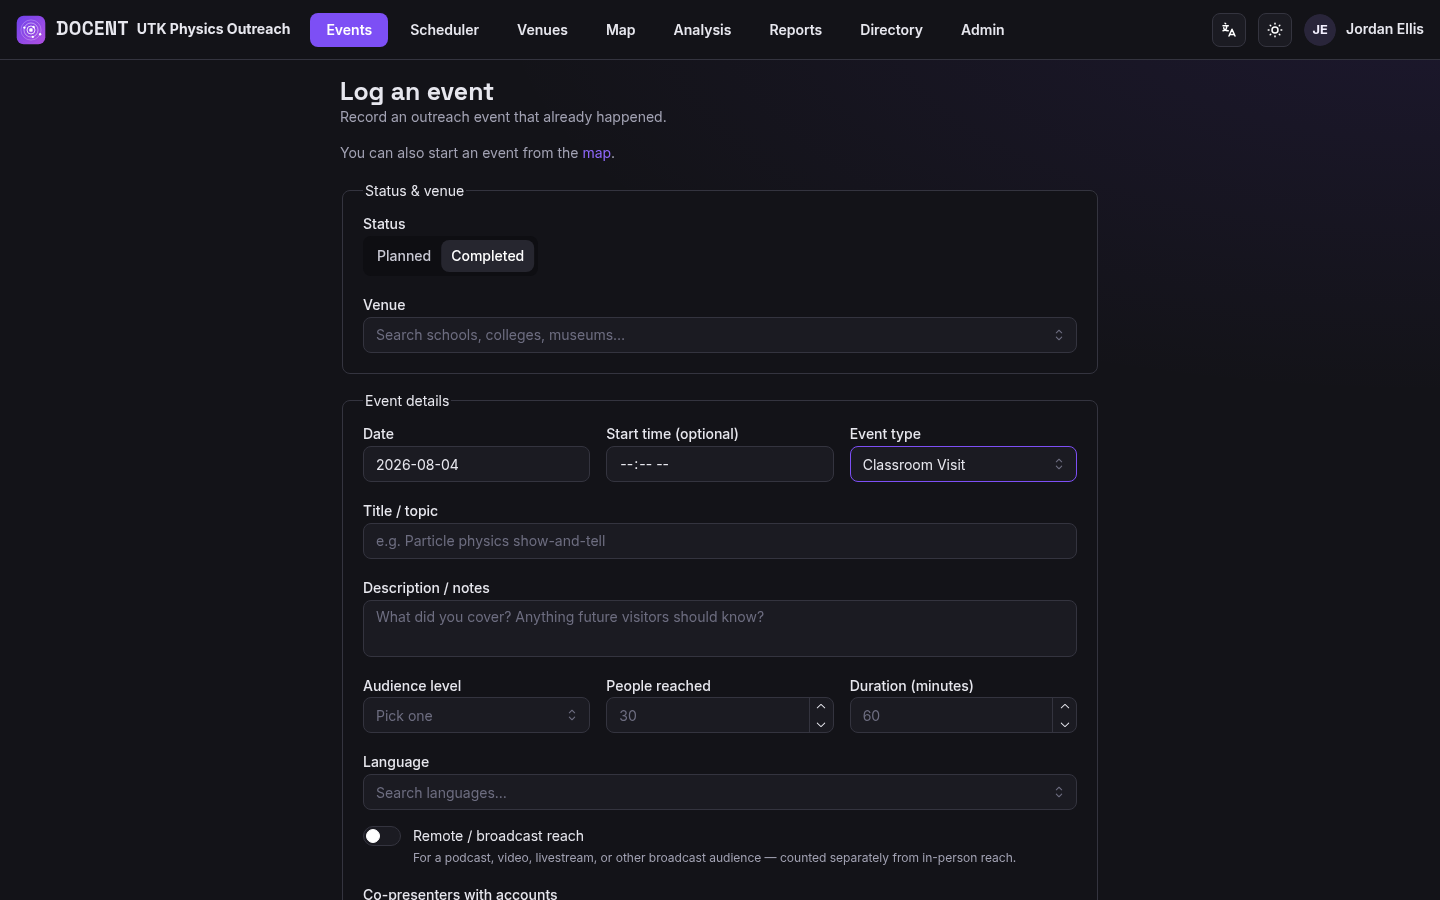
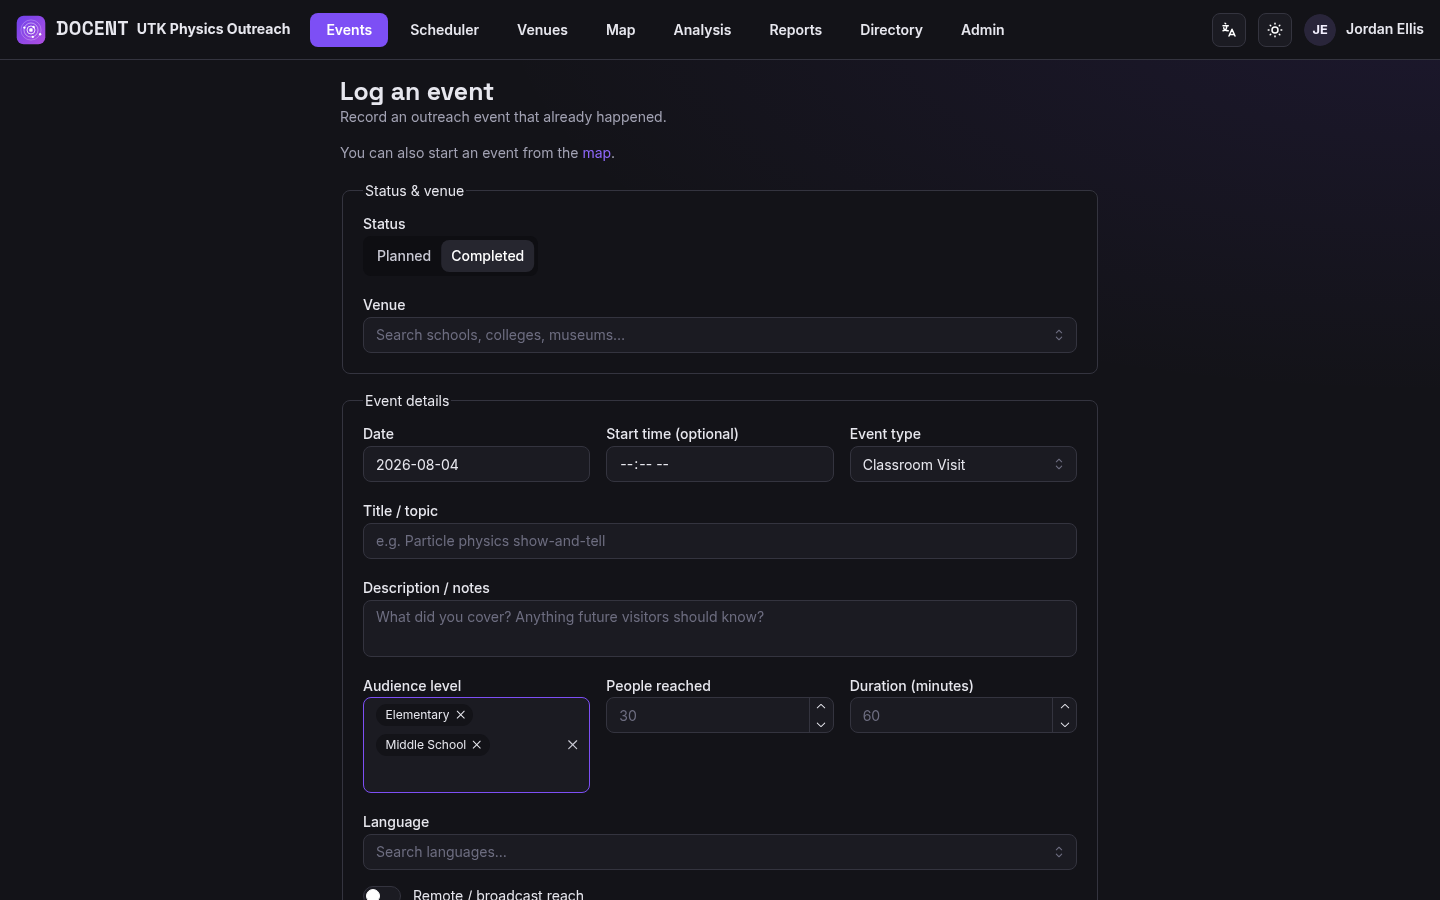
Make audience a multi-select (#42)
An event can target several audience levels at once (e.g. a family day that's
both elementary and middle school).

- Model/migration: add `visits.audience_levels` (array of the native audience
  enum) as the source of truth, backfilled from the existing single value. The
  scalar `audience_level` stays as the primary (always the first element) so the
  federation feed, CSV/DB export, and single-badge displays keep working.
- API: VisitCreate/VisitUpdate accept `audience_levels` (and still accept a lone
  `audience_level` for back-compat); at least one is required, duplicates are
  dropped order-preserving, and the primary is kept in step on create/update.
  VisitOut exposes both.
- Filtering (event list + analysis) now matches an event when *any* of its
  audience levels matches, so a multi-level event is findable under each level.
  Breakdowns group by the primary level, keeping totals exact.
- Frontend: the audience field is a MultiSelect; the detail page shows every
  level as a badge. Placeholder reworded to "Pick one or more" (7 locales).
- Regenerate the event-form screenshot showing the multi-select.

Claude-Session: https://claude.ai/code/session_01XEQAvLSiFRTpLbrGL8uQrW

Changed region(s): [[0.25, 0.7778, 0.5312, 1.0], [0.5625, 0.9333, 0.6875, 0.9644]]

diff --git a/frontend/src/pages/VisitFormPage.tsx b/frontend/src/pages/VisitFormPage.tsx
@@ -9,6 +9,7 @@ import {
   Fieldset,
   Group,
   Input,
+  MultiSelect,
   NumberInput,
   Rating,
   SegmentedControl,
@@ -75,7 +76,7 @@ interface FormValues {
   event_type: string;
   title: string;
   description: string;
-  audience_level: string;
+  audience_levels: string[];
   language: string | null;
   people_reached: number | '';
   duration_minutes: number | '';
@@ -131,7 +132,7 @@ export function VisitFormPage() {
       event_type: 'classroom_visit',
       title: '',
       description: '',
-      audience_level: '',
+      audience_levels: [],
       language: null,
       people_reached: '',
       duration_minutes: '',
@@ -156,7 +157,8 @@ export function VisitFormPage() {
       visit_date: (v) => (v ? null : t('visitForm.validation.dateRequired')),
       title: (v) => (v.trim().length > 0 ? null : t('visitForm.validation.titleRequired')),
       event_type: (v) => (v ? null : t('visitForm.validation.eventTypeRequired')),
-      audience_level: (v) => (v ? null : t('visitForm.validation.audienceRequired')),
+      audience_levels: (v: string[]) =>
+        v && v.length > 0 ? null : t('visitForm.validation.audienceRequired'),
       // Attendance is only required for a completed visit; a planned event may
       // leave it blank until it happens.
       people_reached: (v, values) => {
@@ -184,7 +186,7 @@ export function VisitFormPage() {
         event_type: existing.event_type,
         title: existing.title,
         description: existing.description ?? '',
-        audience_level: existing.audience_level,
+        audience_levels: existing.audience_levels ?? [existing.audience_level],
         language: existing.language,
         people_reached: existing.people_reached,
         duration_minutes: existing.duration_minutes ?? '',
@@ -245,7 +247,7 @@ export function VisitFormPage() {
         event_type: values.event_type,
         title: values.title.trim(),
         description: values.description.trim() || null,
-        audience_level: values.audience_level,
+        audience_levels: values.audience_levels,
         language: values.language || null,
         people_reached: values.people_reached === '' ? 0 : values.people_reached,
         duration_minutes: values.duration_minutes === '' ? null : values.duration_minutes,
@@ -391,11 +393,17 @@ export function VisitFormPage() {
               {...form.getInputProps('description')}
             />
             <SimpleGrid cols={{ base: 1, sm: isPlanned ? 2 : 3 }}>
-              <Select
+              <MultiSelect
                 label={t('visitForm.audienceLevelLabel')}
-                placeholder={t('visitForm.audienceLevelPlaceholder')}
+                placeholder={
+                  form.values.audience_levels.length === 0
+                    ? t('visitForm.audienceLevelPlaceholder')
+                    : undefined
+                }
                 data={AUDIENCE_LEVELS.map((v) => ({ value: v, label: enumLabel.audienceLevel(v) }))}
-                {...form.getInputProps('audience_level')}
+                searchable
+                clearable
+                {...form.getInputProps('audience_levels')}
               />
               {/* Attendance isn't known until the event happens — hidden while planned. */}
               {!isPlanned && (

diff --git a/frontend/src/pages/VisitDetailPage.tsx b/frontend/src/pages/VisitDetailPage.tsx
@@ -129,7 +129,13 @@ export function VisitDetailPage() {
               <Badge variant="light">{enumLabel.eventType(visit.event_type)}</Badge>
             </Field>
             <Field label={t('visitDetail.fieldAudience')}>
-              <Badge variant="light">{enumLabel.audienceLevel(visit.audience_level)}</Badge>
+              <Group gap={6}>
+                {(visit.audience_levels ?? [visit.audience_level]).map((a) => (
+                  <Badge key={a} variant="light">
+                    {enumLabel.audienceLevel(a)}
+                  </Badge>
+                ))}
+              </Group>
             </Field>
             {visit.language && (
               <Field label={t('visitDetail.fieldLanguage')}>{visit.language}</Field>

diff --git a/frontend/src/api/types.ts b/frontend/src/api/types.ts
@@ -355,6 +355,7 @@ export interface Visit {
   host_notes: string | null;
   people_reached: number;
   audience_level: AudienceLevel;
+  audience_levels: AudienceLevel[];
   language: string | null;
   duration_minutes: number | null;
   rating: number | null;

diff --git a/backend/app/schemas.py b/backend/app/schemas.py
@@ -2,7 +2,7 @@ import re
 from datetime import date, datetime, time
 from typing import Literal
 
-from pydantic import BaseModel, ConfigDict, EmailStr, Field, field_validator
+from pydantic import BaseModel, ConfigDict, EmailStr, Field, field_validator, model_validator
 
 MAX_TAGS = 30
 MAX_TAG_LEN = 50
@@ -130,6 +130,29 @@ def clean_languages(values: list[str] | None) -> list[str]:
             seen.add(v)
             out.append(v)
     return out
+
+
+def _resolve_audience_levels(
+    levels: "list[AudienceLevel] | None",
+    primary: "AudienceLevel | None",
+    *,
+    required: bool,
+) -> "list[AudienceLevel] | None":
+    """Normalise the audience multi-select (#42): fall back to the single
+    `primary` when the list is absent, dedupe order-preserving, and enforce at
+    least one when `required`. Returns None only for an omitted optional update."""
+    source = levels if levels is not None else ([primary] if primary else None)
+    if source is None:
+        if required:
+            raise ValueError("at least one audience level is required")
+        return None
+    deduped: list = []
+    for lv in source:
+        if lv is not None and lv not in deduped:
+            deduped.append(lv)
+    if not deduped:
+        raise ValueError("at least one audience level is required")
+    return deduped
 
 
 # --- Auth / users ---
@@ -668,7 +691,11 @@ class VisitCreate(BaseModel):
     host_notes: str | None = None
     # Optional so a *planned* event can be scheduled before attendance is known.
     people_reached: int = Field(default=0, ge=0, le=MAX_PEOPLE_REACHED)
-    audience_level: AudienceLevel
+    # An event can target several audience levels (#42). `audience_levels` is the
+    # multi-select; `audience_level` is the single primary (first of the list) and
+    # is accepted on its own for back-compat. At least one must be given.
+    audience_level: AudienceLevel | None = None
+    audience_levels: list[AudienceLevel] | None = None
     language: str | None = None
     duration_minutes: int | None = Field(default=None, ge=0)
     rating: int | None = Field(default=None, ge=1, le=5)
@@ -679,6 +706,14 @@ class VisitCreate(BaseModel):
     co_presenter_user_ids: list[int] = Field(default_factory=list)
     tags: list[str] = Field(default_factory=list)
     links: list[VisitLink] = Field(default_factory=list)
+
+    @model_validator(mode="after")
+    def _resolve_audiences(self) -> "VisitCreate":
+        self.audience_levels = _resolve_audience_levels(
+            self.audience_levels, self.audience_level, required=True
+        )
+        self.audience_level = self.audience_levels[0]
+        return self
 
     @field_validator("language")
     @classmethod
@@ -713,6 +748,7 @@ class VisitUpdate(BaseModel):
     host_notes: str | None = None
     people_reached: int | None = Field(default=None, ge=0, le=MAX_PEOPLE_REACHED)
     audience_level: AudienceLevel | None = None
+    audience_levels: list[AudienceLevel] | None = None
     language: str | None = None
     duration_minutes: int | None = Field(default=None, ge=0)
     rating: int | None = Field(default=None, ge=1, le=5)
@@ -723,6 +759,16 @@ class VisitUpdate(BaseModel):
     co_presenter_user_ids: list[int] | None = None
     tags: list[str] | None = None
     links: list[VisitLink] | None = None
+
+    @model_validator(mode="after")
+    def _dedupe_audiences(self) -> "VisitUpdate":
+        # Only normalise when the client actually sent an audience field; the
+        # router keeps the scalar primary in step with the list (#42).
+        if self.audience_levels is not None or self.audience_level is not None:
+            self.audience_levels = _resolve_audience_levels(
+                self.audience_levels, self.audience_level, required=False
+            )
+        return self
 
     @field_validator("language")
     @classmethod
@@ -761,6 +807,7 @@ class VisitOut(BaseModel):
     host_notes: str | None
     people_reached: int
     audience_level: AudienceLevel
+    audience_levels: list[AudienceLevel]
     language: str | None
     duration_minutes: int | None
     rating: int | None

diff --git a/backend/tests/test_visits.py b/backend/tests/test_visits.py
@@ -516,3 +516,54 @@ def test_reached_out_host_relationship(client):
     assert v["host_relationship"] == "reached_out"
     got = client.get(f"/api/visits/{v['id']}").json()
     assert got["host_relationship"] == "reached_out"
+
+
+def test_audience_multi_select(client):
+    """Audience is a multi-select: the scalar primary mirrors the first level,
+    duplicates are dropped, and filtering matches any level (#42)."""
+    register(client)
+    venue = create_venue(client)
+    v = create_visit(
+        client,
+        venue["id"],
+        audience_level=None,
+        audience_levels=["elementary", "middle_school", "elementary"],
+    )
+    assert v["audience_levels"] == ["elementary", "middle_school"]  # deduped, ordered
+    assert v["audience_level"] == "elementary"  # primary == first
+
+    got = client.get(f"/api/visits/{v['id']}").json()
+    assert got["audience_levels"] == ["elementary", "middle_school"]
+
+    # Filtering by a *secondary* level still surfaces the event.
+    listed = client.get("/api/visits", params={"audience_level": "middle_school"}).json()
+    assert any(it["id"] == v["id"] for it in listed["items"])
+    # A level it doesn't target excludes it.
+    other = client.get("/api/visits", params={"audience_level": "graduate"}).json()
+    assert all(it["id"] != v["id"] for it in other["items"])
+
+    # Updating the list re-syncs the primary.
+    upd = client.patch(
+        f"/api/visits/{v['id']}", json={"audience_levels": ["graduate", "educators"]}
+    )
+    assert upd.status_code == 200, upd.text
+    assert upd.json()["audience_levels"] == ["graduate", "educators"]
+    assert upd.json()["audience_level"] == "graduate"
+
+
+def test_audience_at_least_one_required(client):
+    """An empty audience multi-select is rejected (#42)."""
+    register(client)
+    venue = create_venue(client)
+    resp = client.post(
+        "/api/visits",
+        json={
+            "venue_id": venue["id"],
+            "visit_date": "2026-03-14",
+            "event_type": "classroom_visit",
+            "title": "No audience",
+            "people_reached": 10,
+            "audience_levels": [],
+        },
+    )
+    assert resp.status_code == 422, resp.text

diff --git a/backend/app/models.py b/backend/app/models.py
@@ -70,6 +70,12 @@ class AudienceLevel(str, enum.Enum):
     mixed = "mixed"
 
 
+# One shared Enum instance for both the scalar `audience_level` and the
+# `audience_levels` array column, so metadata.create_all emits the native enum
+# type exactly once (#42).
+_audience_level_enum = Enum(AudienceLevel, name="audience_level")
+
+
 class InstitutionType(str, enum.Enum):
     school = "school"
     college = "college"
@@ -261,8 +267,15 @@ class Visit(Base):
     host_relationship_detail: Mapped[str | None] = mapped_column(String(500))
     host_notes: Mapped[str | None] = mapped_column(Text)
     people_reached: Mapped[int] = mapped_column(Integer)
-    audience_level: Mapped[AudienceLevel] = mapped_column(
-        Enum(AudienceLevel, name="audience_level")
+    # Primary audience level — kept as a single value for back-compat (federation
+    # feed, CSV/DB export, a one-badge display) and always equal to the first of
+    # `audience_levels`.
+    audience_level: Mapped[AudienceLevel] = mapped_column(_audience_level_enum)
+    # An event can target several audience levels at once (#42). Source of truth
+    # for the form, filtering (match any), and the audience breakdown (an event
+    # is counted once in each level it targets). `audience_level` mirrors [0].
+    audience_levels: Mapped[list[AudienceLevel]] = mapped_column(
+        ARRAY(_audience_level_enum), nullable=False, server_default=text("'{}'")
     )
     # Free-ish text, but constrained to app.languages.LANGUAGE_SET at the
     # Pydantic layer — plain String rather than a Postgres enum so the central

diff --git a/backend/app/routers/visits.py b/backend/app/routers/visits.py
@@ -149,7 +149,8 @@ def _filtered_query(
     if event_type:
         query = query.where(Visit.event_type == event_type)
     if audience_level:
-        query = query.where(Visit.audience_level == audience_level)
+        # Match an event whose audience multi-select includes this level (#42).
+        query = query.where(Visit.audience_levels.any(audience_level))
     if author_id:
         query = query.where(Visit.author_id == author_id)
     if q:
@@ -476,6 +477,12 @@ def update_visit(visit_id: int, body: VisitUpdate, user: CurrentUser, db: DbSess
     updates = body.model_dump(exclude_unset=True)
     if "venue_id" in updates and not db.get(Venue, updates["venue_id"]):
         raise HTTPException(status_code=status.HTTP_404_NOT_FOUND, detail="Venue not found")
+    # Keep the audience multi-select and its primary in step (#42): whichever the
+    # client sent drives both columns (the list wins if both are present).
+    if updates.get("audience_levels"):
+        updates["audience_level"] = updates["audience_levels"][0]
+    elif updates.get("audience_level") is not None:
+        updates["audience_levels"] = [updates["audience_level"]]
     for field, value in updates.items():
         setattr(visit, field, value)
     db.commit()

diff --git a/backend/app/services/dbtransfer.py b/backend/app/services/dbtransfer.py
@@ -127,6 +127,7 @@ def export_data(db: Session) -> dict[str, Any]:
                 "host_notes": v.host_notes,
                 "people_reached": v.people_reached,
                 "audience_level": v.audience_level.value,
+                "audience_levels": [a.value for a in v.audience_levels],
                 "language": v.language,
                 "duration_minutes": v.duration_minutes,
                 "rating": v.rating,
@@ -274,6 +275,12 @@ def import_data(db: Session, payload: dict[str, Any]) -> dict[str, int]:
             host_notes=row.get("host_notes"),
             people_reached=row.get("people_reached", 0),
             audience_level=AudienceLevel(row["audience_level"]),
+            # Fall back to the single primary for exports predating the
+            # multi-select (#42).
+            audience_levels=[
+                AudienceLevel(a)
+                for a in (row.get("audience_levels") or [row["audience_level"]])
+            ],
             language=row.get("language") if row.get("language") in LANGUAGE_SET else None,
             duration_minutes=row.get("duration_minutes"),
             rating=row.get("rating"),

diff --git a/backend/alembic/versions/a7b8c9d0e1f2_add_visit_audience_levels.py b/backend/alembic/versions/a7b8c9d0e1f2_add_visit_audience_levels.py
@@ -1,0 +1,31 @@
+"""add visits.audience_levels multi-select (#42)
+
+Revision ID: a7b8c9d0e1f2
+Revises: f6a7b8c9d0e1
+Create Date: 2026-08-04
+
+An event can target several audience levels at once. `audience_levels` is the
+array source of truth; the existing scalar `audience_level` is kept as the
+primary (always the first element) for back-compat with the federation feed,
+CSV/DB export, and single-badge displays.
+"""
+from alembic import op
+
+revision = "a7b8c9d0e1f2"
+down_revision = "f6a7b8c9d0e1"
+branch_labels = None
+depends_on = None
+
+
+def upgrade() -> None:
+    # Array of the existing native `audience_level` enum type.
+    op.execute(
+        "ALTER TABLE visits "
+        "ADD COLUMN audience_levels audience_level[] NOT NULL DEFAULT '{}'"
+    )
+    # Backfill: every existing event's multi-select starts as its single level.
+    op.execute("UPDATE visits SET audience_levels = ARRAY[audience_level]")
+
+
+def downgrade() -> None:
+    op.drop_column("visits", "audience_levels")

diff --git a/backend/app/routers/stats.py b/backend/app/routers/stats.py
@@ -169,7 +169,9 @@ def _apply_filters(
         query = query.where(Visit.event_type.in_(event_types))
     audience_levels = _parse_enum_list(audience_level, AudienceLevel)
     if audience_levels:
-        query = query.where(Visit.audience_level.in_(audience_levels))
+        # An event matches if its audience multi-select overlaps the requested
+        # levels (#42).
+        query = query.where(Visit.audience_levels.overlap(audience_levels))
     parsed_tags = _parse_tags(tags)
     if parsed_tags:
         query = query.where(Visit.tags.overlap(parsed_tags))

diff --git a/README.md b/README.md
@@ -32,7 +32,7 @@ institution deploys and configures it.)*
 
 ![Events list](docs/screenshots/01-visits.png)
 
-**Log / schedule an event** — one form for both. Toggle *Completed* vs *Planned*, pick or create a venue (searchable, catalog-backed), add host details, attendance, rating, and notes. Flag a podcast, livestream, or other broadcast as **remote / broadcast** reach so its audience is counted apart from in-person attendance.
+**Log / schedule an event** — one form for both. Toggle *Completed* vs *Planned*, pick or create a venue (searchable, catalog-backed), add host details, one or more audience levels, attendance, rating, and notes. Flag a podcast, livestream, or other broadcast as **remote / broadcast** reach so its audience is counted apart from in-person attendance.
 
 ![Log an event](docs/screenshots/05-visit-form.png)
 
